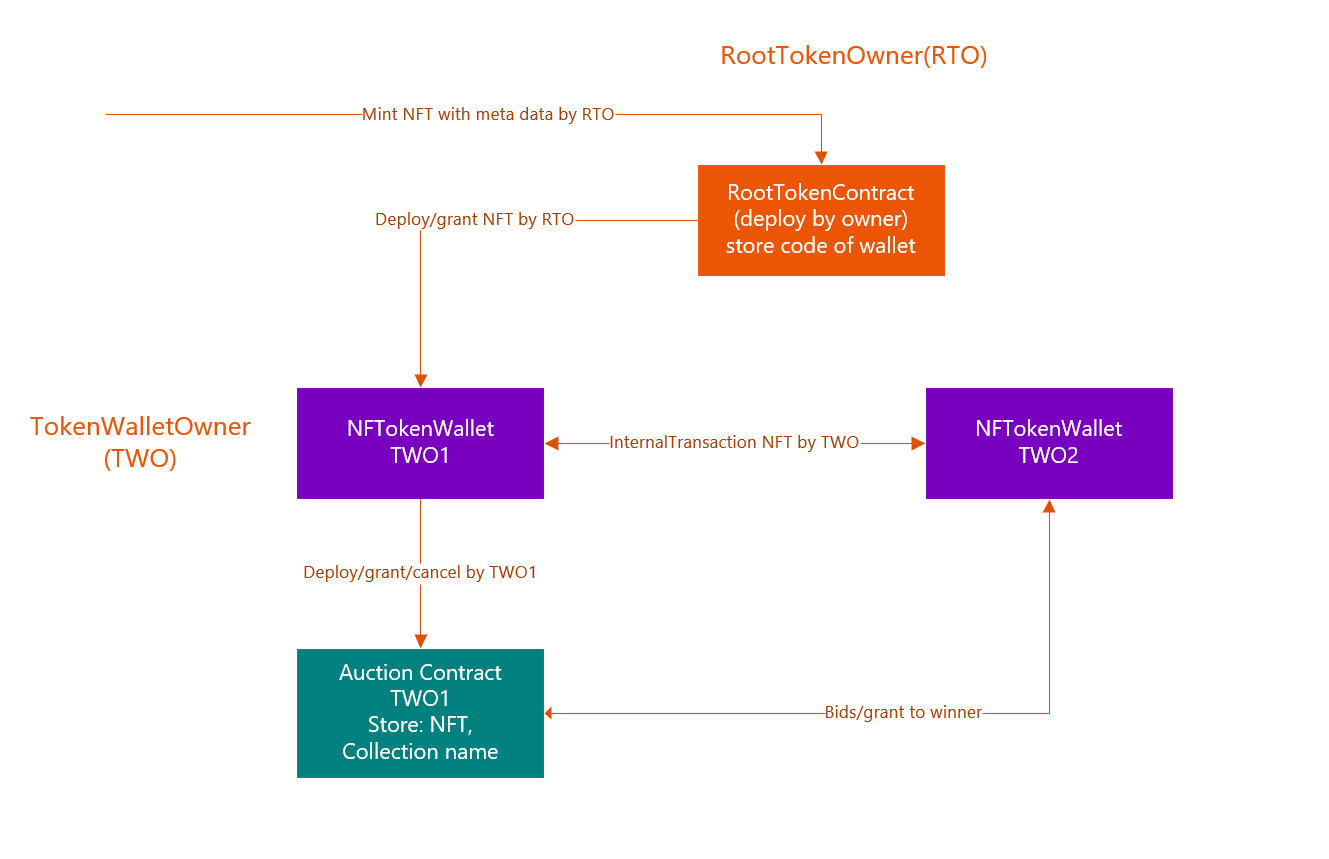
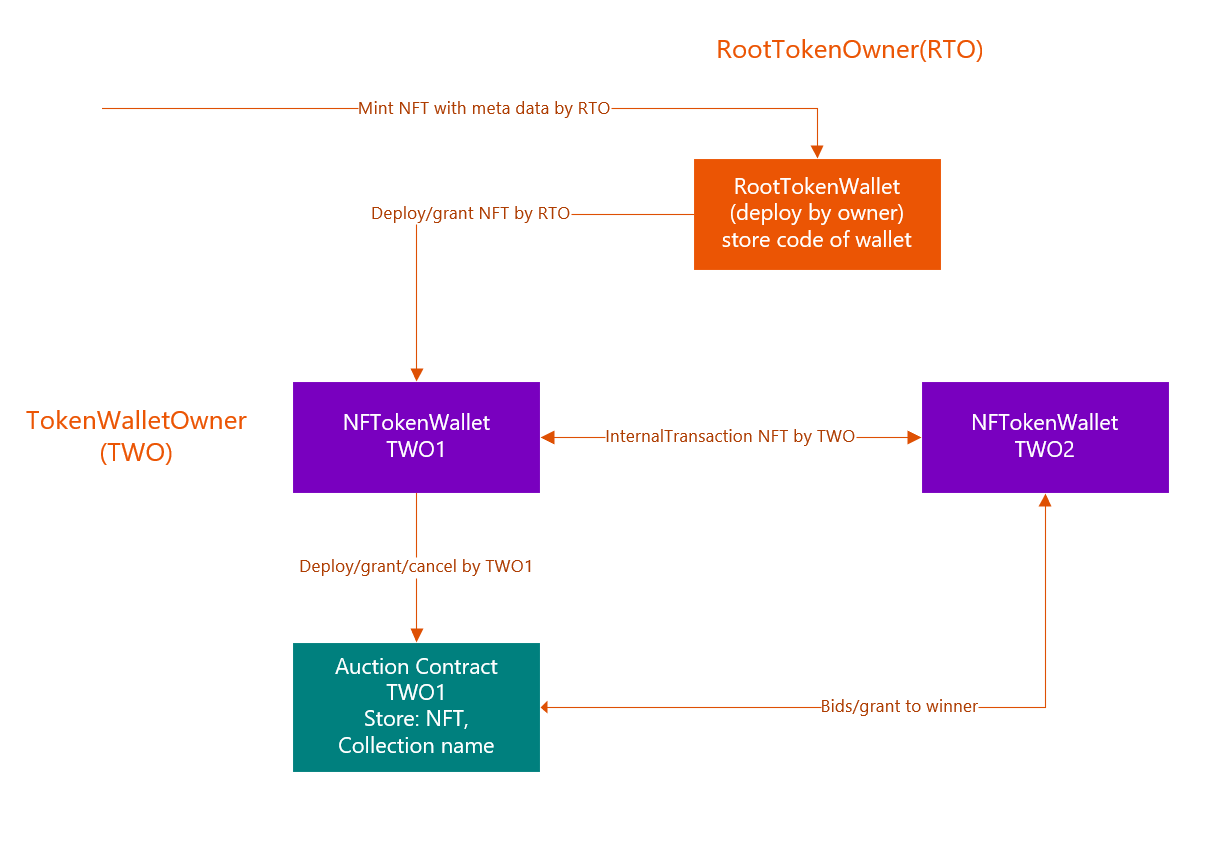
Update docs

diff --git a/README.md b/README.md
@@ -1,19 +1,52 @@
 # NTF Marketplace 
 
+## Last update:
+
+[https://github.com/urands/nft_market](https://github.com/urands/nft_market)
+
 ## Description
 This repository is an attempt to create a MVP for working with NFT in freeton network with tokens of the TIP-3 standard. Initially, the tokens were taken from the official repository ["tonlabs/ton-labs-contracts"](https://github.com/tonlabs/ton-labs-contracts/tree/master/cpp/tokens-nonfungible).
 Contracts deployed on test network: [net.ton.dev](net.ton.dev)
 
-RootTokenContract : [0:d9940684ab66b34e50f0e1062165ebd691c966430927fcafab519e3e11cf8942](https://net.ton.live/accounts/accountDetails?id=0%3Ad9940684ab66b34e50f0e1062165ebd691c966430927fcafab519e3e11cf8942)
+RootTokenWallet (RTW) : [0:d9940684ab66b34e50f0e1062165ebd691c966430927fcafab519e3e11cf8942](https://net.ton.live/accounts/accountDetails?id=0%3Ad9940684ab66b34e50f0e1062165ebd691c966430927fcafab519e3e11cf8942)
 
 A token was deployed for account pubkey: 0x65eb078be1ae9186c4ff96e13e0cfe7f67e5cb388da72189260142cd49e4e069
 
-TONTokenWallet: [0:fdd64bbb036d3f737779eef2ef8441abf4fa906bb282a1e89a6355c39d045bfc](https://net.ton.live/accounts/accountDetails?id=0%3Afdd64bbb036d3f737779eef2ef8441abf4fa906bb282a1e89a6355c39d045bfc)
+NFTokenWallet (NFT): [0:fdd64bbb036d3f737779eef2ef8441abf4fa906bb282a1e89a6355c39d045bfc](https://net.ton.live/accounts/accountDetails?id=0%3Afdd64bbb036d3f737779eef2ef8441abf4fa906bb282a1e89a6355c39d045bfc)
 
 These are test tokens and they do not have fields for storing meta information. Therefore, it was decided to expand their functionality. Also needed contract   to buy/sell transactions of tokens.
+### Implementation
 ![img](./docs/token.png)
 
+The RTW is deployed by a token owner. The RTW stores NFT wallet contract code for deploy and verification. NFT wallet can sell NFTs by Auction Contract (AC). Auction Contract (AC) deploy by NFT wallet and take NFTs for trade. 
 
+Auction contract contains map of items by tokenId:
+
++ startingPrice; // Price at beginning of auction
++ endingPrice; // Price at end of auction
++ duration; // Duration (in seconds) of auction
++ startedAt; // Time when auction started
+
+also for implement searching NFT which are available for sale :
++ RTW
++ NFT wallet
++ tag (collection name)
+
+For each collection TWO can deploy own AC.
+
+Functions:
++ function getAuction(uint256 tokenId)
++ function getCurrentPrice(uint256 tokenId)
++ function cancelAuction(uint256 _tokenId)
++ function bid(uint256 tokenId) // incremental bid
+
+Event:
++ event AuctionCreated(uint256 tokenId, uint256 startingPrice, uint256 endingPrice, uint256 duration);
++ event AuctionSuccessful(uint256 tokenId, uint256 totalPrice, address winner);
++ event AuctionCancelled(uint256 tokenId);
+
+tokenId lock in NTF Wallet if granted to AC. AC can call internalTransaction on some events and return bids.
+        
 
 ## Requirements
 
